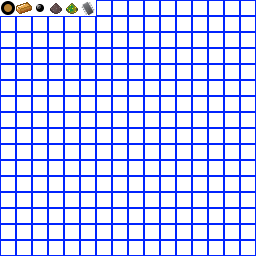
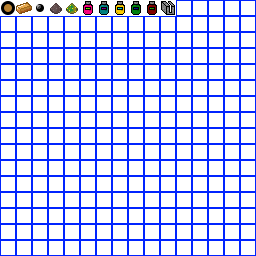
Rendering changes to the drone

Changed region(s): [[0.3125, 0.0, 0.6875, 0.0625]]

diff --git a/ElectroCraft Client/info/cerios/electrocraft/entites/ModelDrone.java b/ElectroCraft Client/info/cerios/electrocraft/entites/ModelDrone.java
@@ -13,12 +13,15 @@ import net.minecraft.src.ModelRenderer;
 
 public class ModelDrone extends ModelBase
 {
-	//fields
 	ModelRenderer DroneBody;
 	ModelRenderer DroneBody1;
 	ModelRenderer BodyConnector;
+	ModelRenderer BodyConnector1;
+	ModelRenderer BodyConnector2;
+	ModelRenderer BodyConnector3;
 
-	public ModelDrone() {
+	public ModelDrone()
+	{
 		textureWidth = 64;
 		textureHeight = 64;
 
@@ -40,13 +43,35 @@ public class ModelDrone extends ModelBase
 		BodyConnector.setTextureSize(64, 64);
 		BodyConnector.mirror = true;
 		setRotation(BodyConnector, 0F, -1.570796F, 0F);
+		BodyConnector1 = new ModelRenderer(this, 14, 23);
+		BodyConnector1.addBox(-7F, -8F, 6F, 6, 1, 1);
+		BodyConnector1.setRotationPoint(0F, 17F, 0F);
+		BodyConnector1.setTextureSize(64, 64);
+		BodyConnector1.mirror = true;
+		setRotation(BodyConnector1, 0F, 0F, 0F);
+		BodyConnector2 = new ModelRenderer(this, 0, 23);
+		BodyConnector2.addBox(1F, -8F, 6F, 6, 1, 1);
+		BodyConnector2.setRotationPoint(0F, 17F, 0F);
+		BodyConnector2.setTextureSize(64, 64);
+		BodyConnector2.mirror = true;
+		setRotation(BodyConnector2, 0F, 0F, 0F);
+		BodyConnector3 = new ModelRenderer(this, 40, 0);
+	    BodyConnector3.addBox(-1F, -8F, 6F, 2, 14, 1);
+	    BodyConnector3.setRotationPoint(0F, 17F, 0F);
+	    BodyConnector3.setTextureSize(64, 64);
+	    BodyConnector3.mirror = true;
+	    setRotation(BodyConnector3, 0F, 0F, 0F);
 	}
 
-	public void render(Entity entity, float f, float f1, float f2, float f3, float f4, float f5) {
+	public void render(Entity entity, float f, float f1, float f2, float f3, float f4, float f5)
+	{
 		setRotationAngles(entity.rotationYaw, ((EntityDrone)entity).renderYawOffset, f2, f3, f4, f5);
 		DroneBody.render(f5);
 		DroneBody1.render(f5);
 		BodyConnector.render(f5);
+		BodyConnector1.render(f5);
+		BodyConnector2.render(f5);
+		BodyConnector3.render(f5);
 	}
 
 	private void setRotation(ModelRenderer model, float x, float y, float z) {
@@ -57,10 +82,10 @@ public class ModelDrone extends ModelBase
 
 	public void setRotationAngles(float f, float f1, float f2, float f3, float f4, float f5) {
 		DroneBody.rotateAngleY = ((f - f1) - 90) * ((float)Math.PI / 180f);
-		DroneBody.rotateAngleX = 0;
 		DroneBody1.rotateAngleY = ((f - f1) - 90) * ((float)Math.PI / 180f);
-		DroneBody1.rotateAngleX = 0;
 		BodyConnector.rotateAngleY = ((f - f1) - 90) * ((float)Math.PI / 180f);
-		BodyConnector.rotateAngleX = 0;
+		BodyConnector1.rotateAngleY = ((f - f1)) * ((float)Math.PI / 180f);
+		BodyConnector2.rotateAngleY = ((f - f1)) * ((float)Math.PI / 180f);
+		BodyConnector3.rotateAngleY = ((f - f1)) * ((float)Math.PI / 180f);
 	}
 }

diff --git a/ElectroCraft Common/info/cerios/electrocraft/core/items/ElectroItems.java b/ElectroCraft Common/info/cerios/electrocraft/core/items/ElectroItems.java
@@ -9,7 +9,7 @@ public enum ElectroItems {
     MAGNETITE_DUST(true, "magnetiteDust", new MagnetiteDust(ConfigHandler.getCurrentConfig().get("item", "magnetiteDust", 30080).getInt(30080)).setIconIndex(3).setItemName("magnetiteDust").setCreativeTab(CreativeTabs.tabMaterials), "Magnetite Dust"),
     ELECTRO_DUST(false, "electroDust", new ElectroDust(ConfigHandler.getCurrentConfig().get("item", "electroDust", 30081).getInt(30081)).setIconIndex(4).setItemName("electroDust").setCreativeTab(CreativeTabs.tabRedstone), "Electrodust"),
     DRONE_UPGRADES(false, "droneUpgrades", new ItemDroneUpgrade(ConfigHandler.getCurrentConfig().get("item", "droneUpgrades", 30082).getInt(30082)).setIconIndex(5).setItemName("droneUpgrades").setCreativeTab(CreativeTabs.tabRedstone), "Drone Gyroscope Card", "Drone GPS Card", "Drone Analyzer Card", "Drone Engine Card", "Drone AI Card"),
-    DRONE(false, "itemDrone", new ItemDrone(ConfigHandler.getCurrentConfig().get("item", "itemDrone", 30083).getInt(30083)).setIconIndex(6).setItemName("itemDrone").setCreativeTab(CreativeTabs.tabRedstone), "Drone");
+    DRONE(false, "itemDrone", new ItemDrone(ConfigHandler.getCurrentConfig().get("item", "itemDrone", 30083).getInt(30083)).setIconIndex(10).setItemName("itemDrone").setCreativeTab(CreativeTabs.tabRedstone), "Drone");
     
     private boolean isOreDicItem;
     private String name;

diff --git a/ElectroCraft Client/info/cerios/electrocraft/entites/RenderDrone.java b/ElectroCraft Client/info/cerios/electrocraft/entites/RenderDrone.java
@@ -32,6 +32,28 @@ public class RenderDrone extends RenderLiving {
 	@Override
     protected void renderEquippedItems(EntityLiving par1EntityLiving, float par2) {
 		GL11.glRotatef(par1EntityLiving.rotationYaw - par1EntityLiving.renderYawOffset, 0, 1, 0);
+		if (((EntityDrone)par1EntityLiving).getInventory().tools[0] != null) {
+			GL11.glPushMatrix();
+			GL11.glTranslatef(0.115f, 0.60f, 0.17f);
+			GL11.glScalef(0.25f, 0.25f, 0.25f);
+			GL11.glRotatef(110, 1, 0, 0);
+			GL11.glRotatef(60, 0, 1, 0);
+			GL11.glRotatef(110, 1, 1, 0);
+			GL11.glRotatef(-52, 1, 1, 1);
+			this.renderManager.itemRenderer.renderItem(par1EntityLiving, ((EntityDrone)par1EntityLiving).getInventory().tools[0], 0);
+			GL11.glPopMatrix();
+		}
+		if (((EntityDrone)par1EntityLiving).getInventory().tools[2] != null) {
+			GL11.glPushMatrix();
+			GL11.glTranslatef(-.385f, 0.60f, 0.17f);
+			GL11.glScalef(0.25f, 0.25f, 0.25f);
+			GL11.glRotatef(110, 1, 0, 0);
+			GL11.glRotatef(60, 0, 1, 0);
+			GL11.glRotatef(110, 1, 1, 0);
+			GL11.glRotatef(-52, 1, 1, 1);
+			this.renderManager.itemRenderer.renderItem(par1EntityLiving, ((EntityDrone)par1EntityLiving).getInventory().tools[2], 0);
+			GL11.glPopMatrix();
+		}
     	if (par1EntityLiving.getHeldItem() != null) {
             // Item render code *Copied from RenderPlayer*
     		GL11.glRotatef(180, 1, 0, 0);

diff --git a/ElectroCraft Common/info/cerios/electrocraft/core/items/ItemDrone.java b/ElectroCraft Common/info/cerios/electrocraft/core/items/ItemDrone.java
@@ -11,13 +11,18 @@ public class ItemDrone extends Item {
 		super(id);
 	}
 
-    public boolean onItemUse(ItemStack stack, EntityPlayer player, World world, int x, int y, int z, int par7, float par8, float par9, float par10) {
-    	if (!world.isRemote) {
-    		EntityDrone drone = new EntityDrone(world);
-    		drone.setPositionAndRotation(x, y + 1, z, 0, 0);
-    		world.spawnEntityInWorld(drone);
-    		stack.stackSize--;
-    	}
+	@Override
+	public String getTextureFile() {
+		return "/info/cerios/electrocraft/gfx/items.png";
+	}
+
+	public boolean onItemUse(ItemStack stack, EntityPlayer player, World world, int x, int y, int z, int par7, float par8, float par9, float par10) {
+		if (!world.isRemote) {
+			EntityDrone drone = new EntityDrone(world);
+			drone.setPositionAndRotation(x, y + 1, z, 0, 0);
+			world.spawnEntityInWorld(drone);
+			stack.stackSize--;
+		}
 		return true;
-    }
+	}
 }

diff --git a/ElectroCraft Common/info/cerios/electrocraft/core/items/ItemDroneUpgrade.java b/ElectroCraft Common/info/cerios/electrocraft/core/items/ItemDroneUpgrade.java
@@ -31,6 +31,23 @@ public class ItemDroneUpgrade extends Item implements ICard {
 	}
 
 	@Override
+	public int getIconFromDamage(int meta) {
+		switch (meta) {
+		case 0:
+			return 9;
+		case 1:
+			return 8;
+		case 2:
+			return 6;
+		case 3:
+			return 7;
+		case 4:
+			return 5;
+		}
+		return 0;
+	}
+	
+	@Override
 	public String getItemNameIS(ItemStack stack) {
 		switch(stack.getItemDamage()) {
 		case 0:
